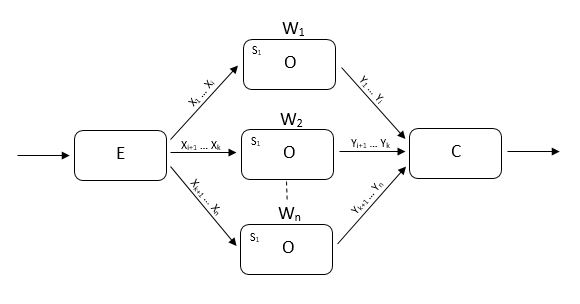
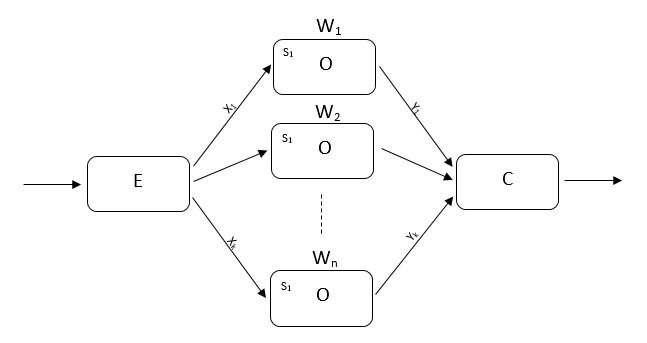
Révision chapitre 3

Changed region(s): [[0.031, 0.0592, 0.9621, 0.9474], [0.4034, 0.5625, 0.5897, 0.5921], [0.4345, 0.9474, 0.5586, 0.977]]

diff --git a/MemoireRedaction/implementation.tex b/MemoireRedaction/implementation.tex
@@ -12,6 +12,8 @@ et de laisser \LaTeX\ faire le placement. Ensuite, lors de la version
 finale, si des figures sont vraiment mal plac\'ees, tu pourras mettre
 des sp\'ecifications de placement.}
 
+\IC{J'ai cherch\'e toutes les autres figures et j'ai supprim\'e [ht]}
+
 \begin{figure}
 \centering
      \includegraphics[width=1.0\textwidth]{Figures/AllComponentsAPI.jpg}
@@ -67,6 +69,8 @@ sens (landscape)?}
 
 \IC{J'ai repr\'esent\'e la correspondance par une ligne pointill\'ee.}
 
+\IC{J'ai mis \`a jour la figure.}
+
 
 \section{Mise en \oe{}uvre des pipelines}
 
@@ -97,6 +101,8 @@ d'expliquer tout cela est de distinguer entre parall\'elisme de flux
 dans le chapitre I, c'est bien de parall\'elisme de flux que tu
 discutes. Donc, je crois avoir fait les modifications en
 cons\'equence... mais ce sera \`a v\'erifier!}
+
+\IC{Vous avez fait quelques changements. Maintenant, c'est beaucoup plus clair.}
 
 
 \subsection{Parall\'elisme de flux}
@@ -139,7 +145,9 @@ Dans notre impl\'ementation de \PpFf, le parall\'elisme de donn\'ees est mis en 
 
 D\'ecrit \`a la section~\ref{farm.sect}, un \emph{Task Farm} est compos\'ee de trois entit\'es : un \emph{Emitter}, plusieurs instances de travailleurs (\emph{workers}) et un \emph{Collector}. Par d\'efaut, dans \PpFf{}, les \'el\'ements sont r\'epartis par un \emph{Emitter} aux divers travailleurs selon une politique \emph{round robin}.%
 %
-\footnote{Politique \emph{round robin}~: \GT{Dire quelques mots sur ce que cela signifie.}}
+\footnote{Politique \emph{round robin}~: un algorithme pour r\'epartir la charge du travail entre les \emph{threads} de \TT{Farm} 
+\GT{Dire quelques mots sur ce que cela signifie.}
+\IC{J'ai ajout\'e quelques mots pour la signification de \emph{round robin}}} 
 %
 Les travailleurs re\c{c}oivent les \'el\'ements d'entr\'ee et appliquent sur chacun l'op\'eration sp\'ecifi\'ee au pr\'ealable par l'utilisateur. Les r\'esultats sont ensuite envoy\'es vers le \emph{Collector} charg\'e de les collecter --- i.e., de les combiner --- puis de les transmettre sur le flux de sortie.
 
@@ -163,6 +171,8 @@ biais d'une partition... mais ce serait inutilement compliqu\'e je
 crois.}
 
 \GT{Si possible aussi: mettre un peu plus d'espace entre la boite pour W2 et celle pour Wn, en mettant plus explicitement des petits points entre les deux.}
+
+\IC{J'ai modifié la figure.}
 
 L'impl\'ementation parall\`ele de ce mod\`ele peut \^etre
 exprim\'ee sous la forme d'un ensemble de $n$ travailleurs $W_1, W_2,\ldots, W_n$ qui
@@ -202,6 +212,8 @@ Il est possible de sp\'ecifier en param\`etre le nombre de travailleurs \`a util
 \GT{M\^eme remarque que ci-haut concernant la figure~: Si possible
 mettre un peu plus d'espace entre la boite pour W2 et celle pour Wn,
 en mettant plus explicitement des petits points entre les deux.}
+
+\IC{J'ai modifié la figure.}
 
 
 Le traitement en parall\`ele d'un flux de donn\'ees contribue \`a augmenter les performances du pipeline en utilisant les diff\'erents cœurs ou processeurs de la machine. Cependant, il existe une limitation lorsque le parall\'elisme de donn\'ees est appliqu\'e sur certaines op\'erations. Dans un flux, seules les op\'erations sans \'etat peuvent \^etre parall\'elis\'ees sans probl\`eme --- parce que sans interf\'erence. Par contre, quand il est n\'ecessaire de parall\'eliser une op\'eration avec \'etat, les choses deviennent un peu plus compliqu\'ees parce que le r\'esultat du calcul est obtenu en traitant un ensemble d'\'el\'ements d'entr\'ee appartenant \`a un ou plusieurs flux de donn\'ees. Par exemple, la figure~\ref{StageDataParallel.fig} montre un exemple o\`u l'op\'eration \TT{reduce} est appliqu\'ee en parall\`ele. Or, le r\'esultat global correct doit \^etre obtenu \emph{en combinant les r\'esultats du traitement de chacun des sous-flux} trait\'es dans un fil d'ex\'ecution ind\'ependant. Afin d'optimiser ce traitement, nous avons introduit les \emph{stages}.
@@ -277,15 +289,17 @@ lambda-expression utilis\'ee dans le find.}
 
 \ic{J'ai ajout\'e des lambda--expressions avec un nom.}
 
-\GT{J'ai chang\'e un peu le nom des fonctions et je les ai mises dans l'ordre d'utilisation.}
+\gt{J'ai chang\'e un peu le nom des fonctions et je les ai mises dans l'ordre d'utilisation.}
 
 Cette section d\'ecrit le mod\`ele d'ex\'ecution de \ppff\ \`a l'aide du code source d'une petite application. Illustr\'ee dans le listing~\ref{listingExampleImplementationPpFf}, l'application est compos\'ee des \'el\'ements suivants :
 \begin{itemize}
-	\item  \TT{linesFromFile}, qui g\'en\`ere un flux s\'equentiel de lignes \`a partir d'un fichier --- le fichier est identifi\'e par le param\`etre \TT{path} fourni en argument;
+	\item  \TT{source}, qui g\'en\`ere un flux s\'equentiel de lignes \`a partir d'un fichier --- le fichier est identifi\'e par le param\`etre \TT{path} fourni en argument;
 
 \GT{Oops! Utilise linesFromFile. Est-ce que cela ne devrait pas \^etre
 Flow::source? Cela apparait \`a plusieurs endroits dans les
 explications ci-bas, ainsi que dans la figure finale.}
+
+\IC{J'ai fait une recherche partout dans le document et je n'ai plus trouv\'e le mot linesFromFile au-dehors que vous avez d\'ej\`a trouv\'e. Je croyais que j'ai remplac\'e cela par tout :(}
 
 	\item  \TT{find}, qui s\'electionne dans le flux d'entr\'ee les mots qui ne sont pas vides (\texttt{not\_empty});
 
@@ -321,7 +335,7 @@ La figure~\ref{ExempleRuntimeExecution.fig} montre la repr\'esentation graphique
 
 La classe \TT{Pipeline} de l'API repr\'esente l'entit\'e principale de l'application. \`A l'ex\'ecution, un \TT{Pipeline} correspond \`a une classe \TT{ff\_pipeline} de \TT{FastFlow}. Un \TT{Pipeline} est compos\'e de plusieurs nœuds de type \TT{ff\_node} ou \TT{ff\_farm}. 
 
-Dans un \TT{Pipeline}, la premi\`ere op\'eration est toujours une op\'eration d'entr\'ee, laquelle est impl\'ement\'ee sous forme d'un \TT{ff\_node}. Dans notre exemple, \TT{linesFromFile} renvoie un flux s\'equentiel de lignes \`a partir d'un fichier. De plus, l'op\'eration d'entr\'ee a aussi la t\^ache d'envoyer un signal \TT{EOS} (\emph{\texttt{E}nd \texttt{O}f \texttt{S}tream}) lorsque la g\'en\'eration du flux d'entr\'ee est termin\'ee~: \TT{EOS} indique aux nœuds \TT{ff\_node}s de \TT{FastFlow} de terminer leur ex\'ecution apr\`es la r\'eception de celui-ci.
+Dans un \TT{Pipeline}, la premi\`ere op\'eration est toujours une op\'eration d'entr\'ee, laquelle est impl\'ement\'ee sous forme d'un \TT{ff\_node}. Dans notre exemple, \TT{source} renvoie un flux s\'equentiel de lignes \`a partir d'un fichier. De plus, l'op\'eration d'entr\'ee a aussi la t\^ache d'envoyer un signal \TT{EOS} (\emph{\texttt{E}nd \texttt{O}f \texttt{S}tream}) lorsque la g\'en\'eration du flux d'entr\'ee est termin\'ee~: \TT{EOS} indique aux nœuds \TT{ff\_node}s de \TT{FastFlow} de terminer leur ex\'ecution apr\`es la r\'eception de celui-ci.
 
 La classe repr\'esentant chaque nœud dans un \TT{Pipeline} contient les informations concernant son r\^ole dans la chaine de traitement. Par exemple, l'op\'eration \TT{find} du listing~\ref{listingExampleImplementationPpFf} a pour r\^ole de s\'electionner dans le flux seulement les mots qui ne sont pas vides. Ce r\^ole est d\'efini par l'utilisateur \`a la cr\'eation du \TT{Pipeline}, en fournissant une fonction ou une expression lambda \`a \TT{find}.
 
@@ -348,7 +362,7 @@ La figure~\ref{ExempleRuntimeExecutionFF.fig} montre la repr\'esentation graphiq
 
 \ic{J’ai ajout\'e un diagramme pour montrer le flux dans FastFlow.}
 
-\GT{Excellente figure!}
+\gt{Excellente figure!}
 
 L'ex\'ecution parall\`ele d'un flux est r\'ealis\'ee par l'ex\'ecution de la m\'ethode \TT{run\_and\_wait\_end()} de la classe \TT{ff\_pipeline} de \TT{FastFlow}. Chaque \TT{ff\_node} de \TT{ff\_pipeline} est une instance de la classe C++ \TT{ff\_node} qui ex\'ecute une boucle de traitement qui va comme suit:
 \begin{itemize}
@@ -357,7 +371,43 @@ L'ex\'ecution parall\`ele d'un flux est r\'ealis\'ee par l'ex\'ecution de la m\'
 	\item \'emet dans le canal de sortie (via un pointeur)  l'\'el\'ement produit.
 \end{itemize}
 
-Les nœuds d'un pipeline sont ex\'ecut\'es jusqu'\`a ce qu'ils re\c coivent le signal \TT{EOS}. \`A ce moment, tous les nœuds sont d\'etruits. Dans le cas de noeuds multiples associ\'es \`a du parall\'elisme de donn\'ees, le r\'esultat global de l'op\'eration est obtenu en combinant les r\'esultats des sous-flux produits par les divers fils d'ex\'ecution. Par exemple, chaque op\'eration \TT{collect} repr\'esent\'ee dans la figure~\ref{ExempleRuntimeExecution.fig} collecte le r\'esultat du traitement de chacun des sous-flux trait\'es dans un fil d'ex\'ecution ind\'ependant. Le r\'esultat global est obtenu via la classe \TT{Stage} qui combine ces r\'esultats interm\'ediaires.
+
+
+\begin{figure}
+\centering
+     \includegraphics[width=1.0\textwidth]{Figures/StructureCollectorOperator.jpg}
+      \caption{Une repr\'esentation graphique de la structure d'un op\'erateur final de \TT{PpFf}.}
+       \label{InheritanceCollectorOperator.fig}
+\end{figure}
+
+
+\begin{lstlisting}[
+label={ImplementationOverridingOperator},
+language=c++,
+caption={[Le code source de l'implémentation de l'op\'erateur \TT{operator+} de la classe \TT{CollectorOperator}.]Le code source de l'implémentation de l'op\'erateur \TT{operator+} de la classe \TT{CollectorOperator}.},
+frame=single,
+float]
+template < typename T, typename TContainer >
+class CollectorOperator: public FinalOperator {
+public:
+  CollectorOperator& operator+=(const CollectorOperator& other) {
+    for (T elem: other.container) {
+      container.push_back(elem);
+    }
+
+    return *this ;
+  }	
+  
+private:
+  TContainer container{};
+};
+\end{lstlisting}
+
+Les nœuds d'un pipeline sont ex\'ecut\'es jusqu'\`a ce qu'ils re\c coivent le signal \TT{EOS}. \`A ce moment, tous les nœuds sont d\'etruits. Dans le cas de noeuds multiples associ\'es \`a du parall\'elisme de donn\'ees, le r\'esultat global de l'op\'eration est obtenu en combinant les r\'esultats des sous-flux produits par les divers fils d'ex\'ecution. Par exemple, chaque op\'eration \TT{collect} repr\'esent\'ee dans la figure~\ref{ExempleRuntimeExecution.fig} collecte le r\'esultat du traitement de chacun des sous-flux trait\'es dans un fil d'ex\'ecution ind\'ependant. Le r\'esultat global est obtenu via la classe \TT{Stage} qui combine ces r\'esultats interm\'ediaires. 
+
+Chaque nœud final de \TT{pipeline} (classe Node de \TT{Ppff}) h\'erite de \TT{ff\_node} et de la classe \TT{BaseCollector}. La figure~\ref{InheritanceCollectorOperator.fig} montre la repr\'esentation graphique de cette structure. L'\TT{operator+} d\'efini dans la classe \TT{BaseCollector} est surcharge (overriding en anglais) dans chaque \TT{Node}. De cette fa\c {c}on les \TT{Node} qui h\'eritent de cette classe impl\'ementent sa propre fonctionnalit\'e. Lorsque le \TT{pipeline} finit son traitement, la classe \TT{Stage} compose le r\'esultat final du traitement en appelant l'op\'erateur \TT{operator+} de chaque \TT{Node} dans un loup. Le listing~\ref{ImplementationOverridingOperator} montre l'impl\'ementation de l'\TT{operator+} dans l'un d'op\'erateurs finaux de \TT{PpFf} : \TT{Collector}. Dans ce cas, le r\'esultat partiel produit par chaque thread est ajout\'e dans un conteneur STL.
 
 \GT{Je crois qu'il faudrait indiquer/rappeler de quelle fa\c{c}on ces
 r\'esultats interm\'ediaires sont combin\'es.}
+
+\IC{J'ai d\'ecrit en quelques mots le processus pour la composition du r\'esultat final.}

diff --git a/MemoireRedaction/outils_connus.tex b/MemoireRedaction/outils_connus.tex
@@ -466,7 +466,7 @@ Un \emph{pipeline} est utilis\'e pour mod\'eliser les traitements exprim\'es par
 \subsubsection*{La classe \TT{ff\_farm}}
 \label{farm.sect}
 
-\begin{figure}[htbp]
+\begin{figure}	%[htbp]
      \centering
      \includegraphics[width=1.0\textwidth]{Figures/FastFlowFarm.jpg}
       \caption[Les trois parties d'un \emph{farm} de \TT{FastFlow}.]{Un \emph{farm} de \TT{FastFlow} est compos\'e de trois parties~:  l'\TT{Emitter (E)}, le \emph{pool} de \TT{workers} (W1\ldots\ Wn) et le \TT{Collector (C)}. Les canaux de communication sont impl\'ement\'es en assemblant des files de types \emph{Simple Producer/Simple Consumer (SPSC)} --- figure tir\'ee de~\citep{aldinucci2010efficient}.}
